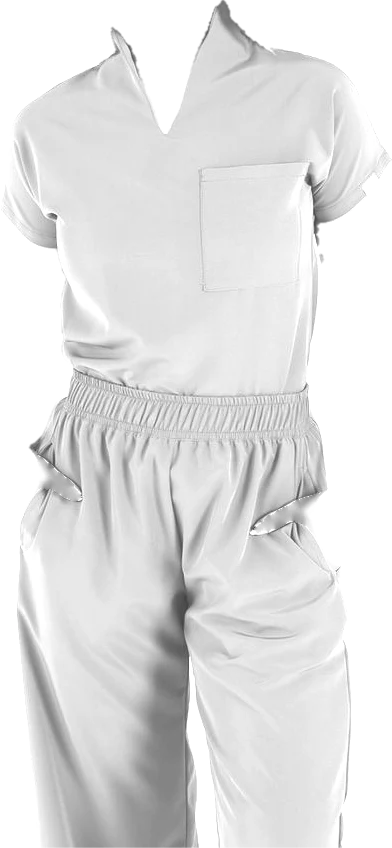
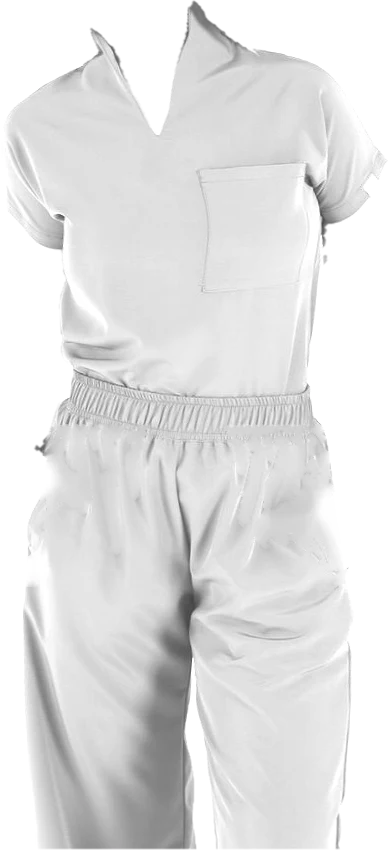
Straighten Solsticio photo, fill hand gaps, default it to green
The cutout script now fills the hip area where the hands were, retouches
the leftover shadows and re-centers every row on a common vertical axis.
Models can set colorInicial; Solsticio opens in Eucalipto.

Claude-Session: https://claude.ai/code/session_01MrivXXZTQJoFngYPXvPbxa

diff --git a/vertice-scrub/lib/catalogo.ts b/vertice-scrub/lib/catalogo.ts
@@ -20,6 +20,8 @@ export interface Modelo {
   detalles: string[];
   /** Foto recortada y recoloreable (sustituye al dibujo). Se genera con scripts/recortar-foto.py. */
   foto?: FotoModelo;
+  /** Color con el que se muestra el modelo al elegirlo (id de un color de cualquier tela). */
+  colorInicial?: string;
 }
 
 export interface FotoModelo {
@@ -80,7 +82,8 @@ export const MODELOS: Modelo[] = [
     disponibilidad: "edicion-limitada",
     unidades: 40,
     detalles: ["Cuello alto en pico", "Bolsillo de parche en el pecho", "Pretina elástica fruncida"],
-    foto: { src: "/modelos/solsticio.webp", ancho: 392, alto: 848, bordado: { x: 252, y: 150 } },
+    foto: { src: "/modelos/solsticio.webp", ancho: 389, alto: 850, bordado: { x: 252, y: 150 } },
+    colorInicial: "eucalipto",
   },
   {
     id: "nomada",

diff --git a/vertice-scrub/lib/personalizacion.ts b/vertice-scrub/lib/personalizacion.ts
@@ -62,8 +62,13 @@ export const seleccionInicial: Seleccion = {
 
 export function reducer(estado: Seleccion, accion: Accion): Seleccion {
   switch (accion.tipo) {
-    case "modelo":
-      return { ...estado, modeloId: accion.id };
+    case "modelo": {
+      const modelo = buscar(MODELOS, accion.id);
+      const tela = modelo.colorInicial && TELAS.find((t) => t.colores.some((c) => c.id === modelo.colorInicial));
+      return tela
+        ? { ...estado, modeloId: modelo.id, telaId: tela.id, colorId: modelo.colorInicial! }
+        : { ...estado, modeloId: modelo.id };
+    }
     case "tela": {
       // Cada tela tiene su propia carta de colores: si el color actual no existe en la nueva tela,
       // se conserva la posición en la carta para que el cambio se sienta natural.

diff --git a/vertice-scrub/scripts/recortar-foto.py b/vertice-scrub/scripts/recortar-foto.py
@@ -2,45 +2,83 @@
 Recorta un uniforme de una foto por su color y genera una máscara recoloreable (WebP con transparencia).
 El gris guarda las sombras de la tela; la web lo tiñe con el color elegido.
 
-Uso: python3 scripts/recortar-foto.py foto.png public/modelos/nombre.webp
+Además:
+  - rellena con tela los huecos que dejan las manos en los bolsillos,
+  - endereza la prenda: centra cada fila sobre un mismo eje vertical y suaviza los laterales.
+
+Uso: python3 scripts/recortar-foto.py foto.png salida.webp [y_inicio_caderas y_fin_caderas]
 Requiere: pip install opencv-python-headless numpy scipy
 Ajusta el rango de tono (h) si la prenda de la foto no es rosa.
 """
 import sys
-import cv2, numpy as np
+import cv2
+import numpy as np
 from scipy import ndimage as ndi
+
 im = cv2.imread(sys.argv[1])
+cad0, cad1 = (int(sys.argv[3]), int(sys.argv[4])) if len(sys.argv) > 4 else (700, 950)
+alto, ancho = im.shape[:2]
+
+# 1. Máscara de la prenda por color
 hsv = cv2.cvtColor(im, cv2.COLOR_BGR2HSV)
 h, s, v = [hsv[..., i].astype(int) for i in range(3)]
-m = (((h >= 150) | (h <= 2)) & (s >= 55) & (v >= 70))
-m = ndi.binary_opening(m, iterations=1)
-m = ndi.binary_closing(m, iterations=3)
-m = ndi.binary_fill_holes(m)
+m = ((h >= 150) | (h <= 2)) & (s >= 55) & (v >= 70)
+m = ndi.binary_fill_holes(ndi.binary_closing(ndi.binary_opening(m), iterations=3))
 lab, n = ndi.label(m)
-sizes = ndi.sum(m, lab, range(1, n + 1))
-keep = [i + 1 for i, sz in enumerate(sizes) if sz > 2000]
-m = np.isin(lab, keep)
-# Rellenar las muescas de las manos en los bolsillos (solo en la franja de las caderas)
-cerrado = cv2.morphologyEx(m.astype(np.uint8), cv2.MORPH_CLOSE, cv2.getStructuringElement(cv2.MORPH_ELLIPSE, (41, 61))).astype(bool)
-franja = np.zeros_like(m); franja[720:900, :] = True
-relleno = cerrado & ~m & franja
+m = lab == (np.argmax(ndi.sum(m, lab, range(1, n + 1))) + 1)
+
+# 2. Bordes izquierdo/derecho por fila, con los laterales de la cadera rectos (sin las manos)
+filas = np.where(m.any(axis=1))[0]
+y0, y1 = filas.min(), filas.max() + 1
+L = np.full(alto, np.nan); R = np.full(alto, np.nan)
+for y in filas:
+    xs = np.where(m[y])[0]; L[y], R[y] = xs.min(), xs.max()
+# En la cadera: envolvente exterior y luego interpolación recta entre la cintura y el muslo
+for y in range(cad0, cad1):
+    L[y] = np.nanmin(L[max(y - 40, y0):y + 40]); R[y] = np.nanmax(R[max(y - 40, y0):y + 40])
+for arr in (L, R):
+    arr[cad0:cad1] = np.linspace(arr[cad0 - 1], arr[cad1], cad1 - cad0)
+
+# 3. Rellenar con tela todo lo que quede dentro de los laterales en la cadera
+relleno = np.zeros_like(m)
+for y in range(cad0, cad1):
+    relleno[y, int(L[y]):int(R[y]) + 1] = True
+relleno &= ~m
 m = m | relleno
-print("px rellenados:", int(relleno.sum()))
-print("componentes:", n, "conservados:", len(keep), [int(x) for x in sorted(sizes)[-4:]])
-# borde suave
-alpha = cv2.GaussianBlur(m.astype(np.float32), (3, 3), 0.8)
-# sombreado: luminosidad de la tela, normalizada para que la zona clara sea blanca
+
+# 4. Sombreado de la tela (gris), con retoque de la zona de las manos
 gris = cv2.cvtColor(im, cv2.COLOR_BGR2GRAY).astype(np.float32)
 ref = np.percentile(gris[m], 97)
-sombra = np.clip(gris / ref, 0, 1)
-sombra = 0.25 + 0.75 * sombra
-# textura de tela inventada donde estaban las manos
-s8 = (sombra * 255).astype(np.uint8)
-s8 = cv2.inpaint(s8, relleno.astype(np.uint8) * 255, 9, cv2.INPAINT_TELEA)
-sombra = s8.astype(np.float32) / 255  # evita negros absolutos en el multiply
-ys, xs = np.where(m)
-y0, y1, x0, x1 = ys.min(), ys.max() + 1, xs.min(), xs.max() + 1
+sombra = 0.25 + 0.75 * np.clip(gris / ref, 0, 1)
+# Marcas oscuras junto a los laterales de la cadera (sombras de manos y muñecas)
+mediana = cv2.medianBlur((sombra * 255).astype(np.uint8), 31).astype(np.float32) / 255
+lateral = np.zeros_like(m)
+for y in range(cad0, cad1):
+    lateral[y, int(L[y]):int(L[y]) + 95] = True
+    lateral[y, int(R[y]) - 95:int(R[y]) + 1] = True
+defectos = relleno | (lateral & m & (sombra < mediana * 0.9))
+defectos = ndi.binary_dilation(defectos, iterations=3) & m
+s8 = cv2.inpaint((sombra * 255).astype(np.uint8), defectos.astype(np.uint8) * 255, 15, cv2.INPAINT_TELEA)
+sombra = s8.astype(np.float32) / 255
+print("px retocados:", int(defectos.sum()))
+
+# 5. Enderezar: cada fila se desplaza para que su centro caiga en un eje vertical común
+centro = (L + R) / 2
+validos = ~np.isnan(centro)
+yy = np.arange(alto)
+centro = np.interp(yy, yy[validos], centro[validos])
+centro = ndi.gaussian_filter1d(centro, 30)
+eje = ancho / 2
+mapa_x = (np.arange(ancho)[None, :] + (centro - eje)[:, None]).astype(np.float32)
+mapa_y = np.repeat(yy[:, None], ancho, axis=1).astype(np.float32)
+alpha = cv2.GaussianBlur(m.astype(np.float32), (3, 3), 0.8)
+sombra = cv2.remap(sombra, mapa_x, mapa_y, cv2.INTER_LINEAR)
+alpha = cv2.remap(alpha, mapa_x, mapa_y, cv2.INTER_LINEAR, borderValue=0)
+
+# 6. Recorte ajustado y exportación
+ys, xs = np.where(alpha > 0.05)
+a0, a1, b0, b1 = ys.min(), ys.max() + 1, xs.min(), xs.max() + 1
 g8 = (sombra * 255).astype(np.uint8)
-rgba = np.dstack([g8, g8, g8, (alpha * 255).astype(np.uint8)])[y0:y1, x0:x1]
+rgba = np.dstack([g8, g8, g8, (alpha * 255).astype(np.uint8)])[a0:a1, b0:b1]
 cv2.imwrite(sys.argv[2], cv2.cvtColor(rgba, cv2.COLOR_RGBA2BGRA), [cv2.IMWRITE_WEBP_QUALITY, 88])
-print("recorte:", x1 - x0, "x", y1 - y0)
+print("recorte:", b1 - b0, "x", a1 - a0)
